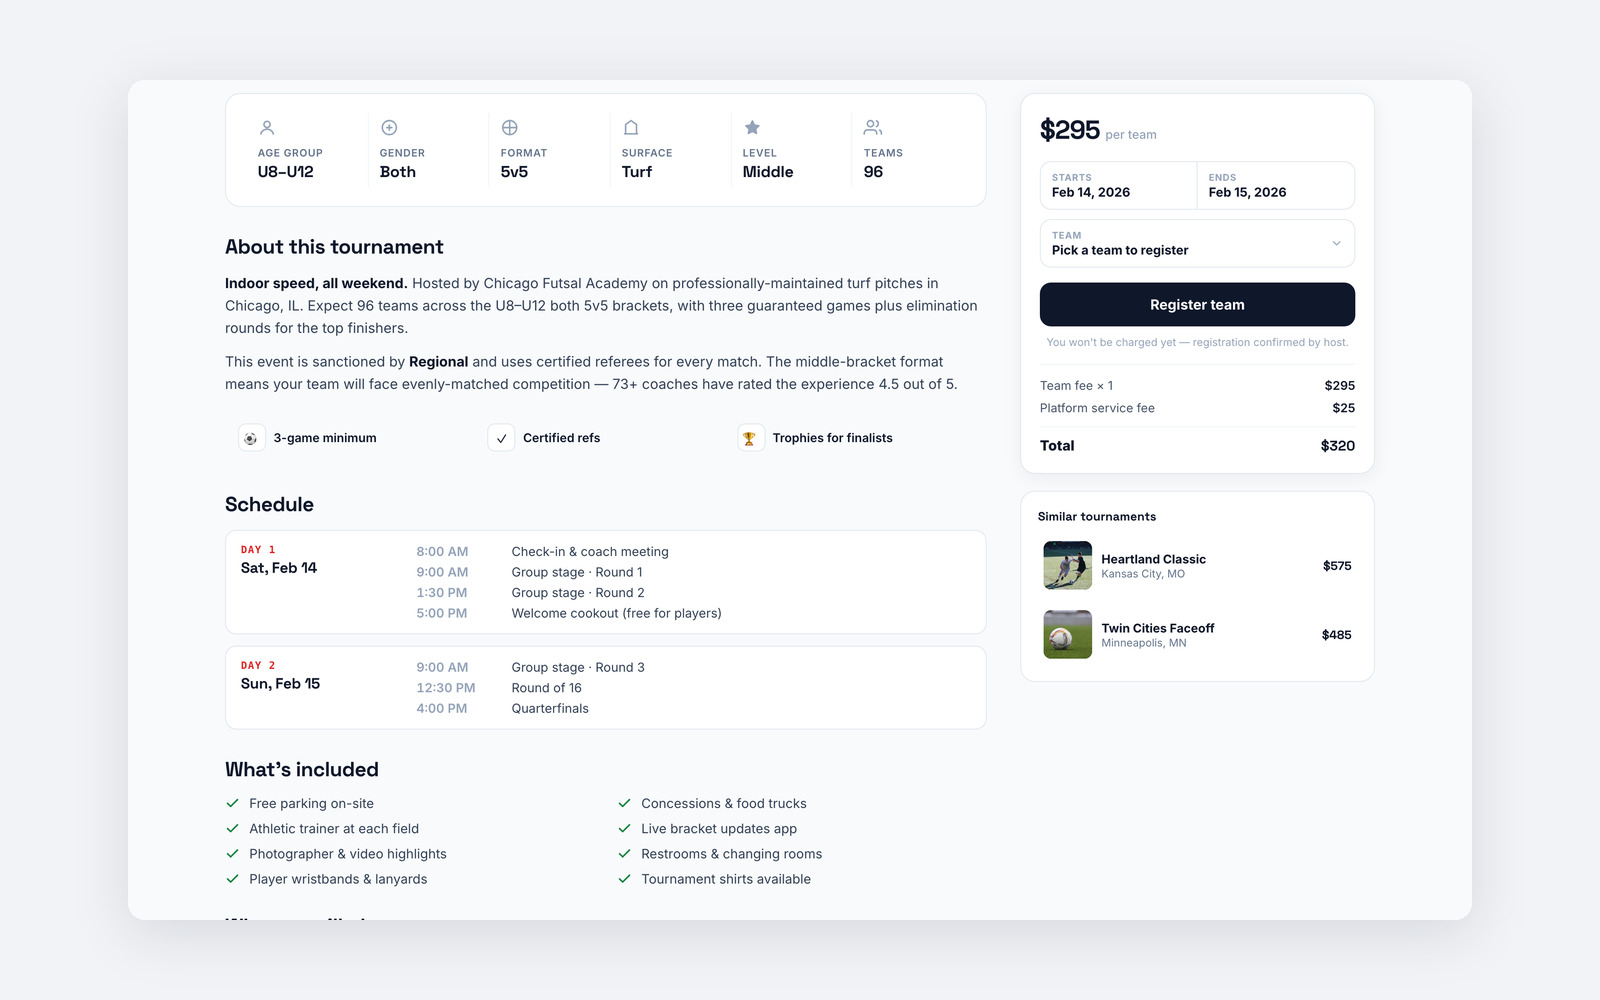
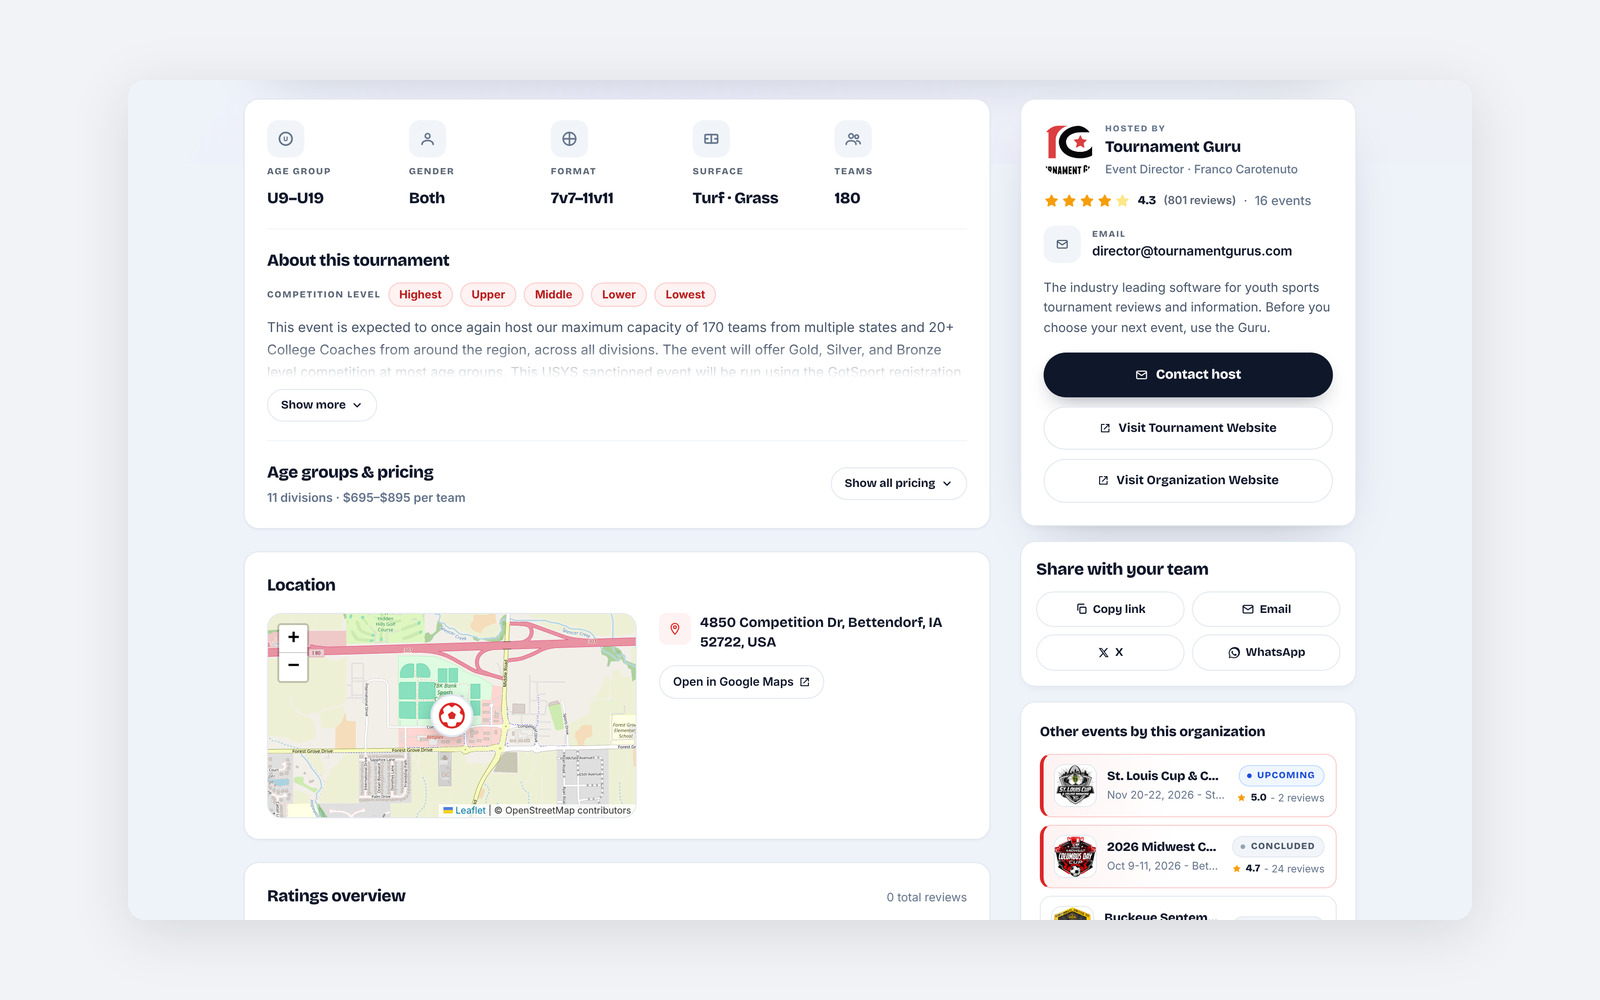
Tournament Guru: screens and cover from the live app, link to app.tournamentgurus.com
Claude-Session: https://claude.ai/code/session_019s9hMNDEcLkm54bZicL17g

diff --git a/cases/tournament-guru.html b/cases/tournament-guru.html
@@ -237,7 +237,7 @@ figure{margin:0}
     <div class="tags"><span class="tag">Web app · Marketplace</span><span class="tag acc">Design Consultant</span></div>
     <span class="year">Youth sports &nbsp;·&nbsp; 2026</span>
   </div>
-  <div class="media rv"><img src="../img/cases/tournament-guru/cover.jpg?v=2" alt="Tournament Guru: tournament page and catalog" loading="lazy"></div>
+  <div class="media rv"><img src="../img/cases/tournament-guru/cover.jpg?v=3" alt="Tournament Guru: tournament page and catalog" loading="lazy"></div>
 </section>
 
 <section class="sec cintro">
@@ -353,16 +353,17 @@ figure{margin:0}
   <div class="wrap">
     <div class="shead">
       <h2 class="h2 rv">UI design</h2>
-      <p class="body rv">Catalog for discovery, an event page built for the final decision — schedule, fees, host and verified reviews — and a sign-in that sells the value.</p>
+      <p class="body rv">From the live product: search with filters and a map, an event page built for the final decision — details, pricing, location and host — and verified reviews right in the listing.</p>
     </div>
     <div class="screens">
-      <div class="media span rv"><img src="../img/cases/tournament-guru/screen-catalog.jpg?v=2" alt="Catalog with filters and recommended tournaments" loading="lazy"></div>
-      <div class="media rv"><img src="../img/cases/tournament-guru/screen-event.jpg?v=2" alt="Tournament page with key facts" loading="lazy"></div>
-      <div class="media rv"><img src="../img/cases/tournament-guru/screen-details.jpg?v=1" alt="Schedule, what’s included and the registration card with fees" loading="lazy"></div>
-      <div class="media rv"><img src="../img/cases/tournament-guru/screen-reviews.jpg?v=1" alt="Host profile, ratings by category and verified reviews" loading="lazy"></div>
-      <div class="media rv"><img src="../img/cases/tournament-guru/screen-login.jpg?v=2" alt="Sign-in with value proposition" loading="lazy"></div>
+      <div class="media span rv"><img src="../img/cases/tournament-guru/screen-catalog.jpg?v=3" alt="Event search with filters, featured events and a map with pins" loading="lazy"></div>
+      <div class="media rv"><img src="../img/cases/tournament-guru/screen-event.jpg?v=3" alt="Tournament page with photos, dates and host" loading="lazy"></div>
+      <div class="media rv"><img src="../img/cases/tournament-guru/screen-details.jpg?v=2" alt="Event details, pricing, location map and host profile" loading="lazy"></div>
+      <div class="media rv"><img src="../img/cases/tournament-guru/screen-reviews.jpg?v=2" alt="Event cards with verified and attendee ratings" loading="lazy"></div>
+      <div class="media rv"><img src="../img/cases/tournament-guru/screen-login.jpg?v=3" alt="Sign-in with platform stats" loading="lazy"></div>
+      <div class="media span rv"><img src="../img/cases/tournament-guru/screen-home.jpg?v=1" alt="Home page: tournament search engine with reviews" loading="lazy"></div>
     </div>
-    <p class="body rv" style="margin-top:20px"><a href="https://tournament-guru.vercel.app/index.html" target="_blank" rel="noopener" style="color:var(--brand)">Open the live prototype ↗</a></p>
+    <p class="body rv" style="margin-top:20px"><a href="https://app.tournamentgurus.com/" target="_blank" rel="noopener" style="color:var(--brand)">Open the live app ↗</a></p>
   </div>
 </section>
 

diff --git a/ru.html b/ru.html
@@ -1017,7 +1017,7 @@ dialog.sheet[open]{animation:pop .45s var(--ease)}
         <dl class="wk-kpi"><div><dt>Веб</dt><dd>Тип продукта</dd></div><div><dt>Дизайн-консультант</dt><dd>Моя роль</dd></div><div><dt>2 недели</dt><dd>Длительность</dd></div></dl>
         <span class="wk-cta">Смотреть кейс</span>
       </div>
-      <div class="wk-vis wk-img pvw sq" data-r="20"><div class="pv-ph sq" data-r="18"><img src="img/cases/tournament-guru/cover.jpg?v=2" alt="Tournament Guru" loading="lazy"></div></div>
+      <div class="wk-vis wk-img pvw sq" data-r="20"><div class="pv-ph sq" data-r="18"><img src="img/cases/tournament-guru/cover.jpg?v=3" alt="Tournament Guru" loading="lazy"></div></div>
     </a>
   </div>
 </section>

diff --git a/cases/bookkeeper-ai.html b/cases/bookkeeper-ai.html
@@ -383,7 +383,7 @@ figure{margin:0}
   <div class="wrap">
     <div class="next">
       <a class="ncase rv" href="tournament-guru.html">
-        <div class="media"><img src="../img/cases/tournament-guru/cover.jpg?v=2" alt="Tournament Guru" loading="lazy"></div>
+        <div class="media"><img src="../img/cases/tournament-guru/cover.jpg?v=3" alt="Tournament Guru" loading="lazy"></div>
         <div class="lbl"><div><small>Next case study</small><b>Tournament Guru</b></div><span class="arr circle"><svg width="16" height="16" viewBox="0 0 16 16" fill="none" stroke="currentColor" stroke-width="1.6" stroke-linecap="round" stroke-linejoin="round"><path d="M3 8h10M9 4l4 4-4 4"/></svg></span></div>
       </a>
       <div class="cta rv">

diff --git a/index.html b/index.html
@@ -1017,7 +1017,7 @@ dialog.sheet[open]{animation:pop .45s var(--ease)}
         <dl class="wk-kpi"><div><dt>Web</dt><dd>Product type</dd></div><div><dt>Design Consultant</dt><dd>My role</dd></div><div><dt>2 weeks</dt><dd>Duration</dd></div></dl>
         <span class="wk-cta">View case</span>
       </div>
-      <div class="wk-vis wk-img pvw sq" data-r="20"><div class="pv-ph sq" data-r="18"><img src="img/cases/tournament-guru/cover.jpg?v=2" alt="Tournament Guru" loading="lazy"></div></div>
+      <div class="wk-vis wk-img pvw sq" data-r="20"><div class="pv-ph sq" data-r="18"><img src="img/cases/tournament-guru/cover.jpg?v=3" alt="Tournament Guru" loading="lazy"></div></div>
     </a>
   </div>
 </section>

diff --git a/cases/_tools/build_tournament.py b/cases/_tools/build_tournament.py
@@ -1,10 +1,11 @@
-"""Tournament Guru: обложка, экраны без панели браузера и фото. Запуск из корня репозитория."""
+"""Tournament Guru: обложка и экраны из живого приложения app.tournamentgurus.com, плюс фото.
+Исходники лежат в cases/_src/tournament-guru/app (снимки 2x, 2880 px). Запуск из корня репозитория."""
 import sys
 sys.path.insert(0, 'cases/_tools')
 from PIL import Image
 import flat as F
 
-S, O = 'cases/_src/tournament-guru', 'img/cases/tournament-guru'
+S, O = 'cases/_src/tournament-guru/app', 'img/cases/tournament-guru'
 BG = (241, 243, 247)
 
 
@@ -20,21 +21,19 @@ def tile(img, size, pad, r):
     return cv
 
 
-# обложка: страница турнира + каталог поверх
+# обложка: главная + каталог с картой поверх
 W, H = 2800, 1575
 cv = Image.new('RGBA', (W, H), BG + (255,))
-a = F.fit(scr('d_event'), w=1880)
+a = F.fit(scr('01-home'), w=1880)
 F._place(cv, F._card(a, 22, border=False), (150, 150), 22, blur=34, alpha=34, dy=16)
-b = F.fit(scr('d_catalog_nomap'), w=1300)
+b = F.fit(scr('02-events'), w=1300)
 F._place(cv, F._card(b, 18, border=False), (W - 150 - b.width, H - 130 - b.height), 18, blur=40, alpha=60, dy=20)
 F.save(cv, f'{O}/cover.jpg')
 
-F.save(tile(scr('d_catalog_nomap'), (2400, 1200), 90, 22), f'{O}/screen-catalog.jpg')
-F.save(tile(scr('d_event'), (1600, 1000), 80, 16), f'{O}/screen-event.jpg')
-F.save(tile(scr('d_event_full', 1500), (1600, 1000), 80, 16), f'{O}/screen-details.jpg')
-F.save(tile(scr('d_event_full', 4280), (1600, 1000), 80, 16), f'{O}/screen-reviews.jpg')
-F.save(tile(scr('d_login'), (1600, 1000), 80, 16), f'{O}/screen-login.jpg')
-
-for k in ['s1', 's2', 's3', 's4']:
-    Image.open(f'{S}/ai/{k}.png').convert('RGB').save(f'{O}/photo-{k}.jpg', quality=90, subsampling=0, optimize=True)
+F.save(tile(scr('02-events'), (2400, 1200), 90, 22), f'{O}/screen-catalog.jpg')
+F.save(tile(scr('03-event'), (1600, 1000), 80, 16), f'{O}/screen-event.jpg')
+F.save(tile(scr('03-event-full', 1620), (1600, 1000), 80, 16), f'{O}/screen-details.jpg')
+F.save(tile(Image.open(f'{S}/02-events-full.png').convert('RGB').crop((170, 3300, 1740, 4280)), (1600, 1000), 80, 16), f'{O}/screen-reviews.jpg')
+F.save(tile(scr('07-login'), (1600, 1000), 80, 16), f'{O}/screen-login.jpg')
+F.save(tile(scr('01-home'), (2400, 1200), 90, 22), f'{O}/screen-home.jpg')
 print('ok')

diff --git a/HANDOFF.md b/HANDOFF.md
@@ -59,7 +59,7 @@
 
 | Кейс | Прототип | Суть | Шрифты / токены |
 |---|---|---|---|
-| Tournament Guru | https://tournament-guru.vercel.app/home.html | Выбор детских турниров с проверенными отзывами | Space Grotesk + Inter, navy/blue/red |
+| Tournament Guru | https://app.tournamentgurus.com/ | Выбор детских турниров с проверенными отзывами | Space Grotesk + Inter, navy/blue/red |
 | BookKeeper AI | https://bookkeeper-ai-tau.vercel.app/ | Внутренний AI-ассистент бухгалтерской фирмы: отвечает только по опубликованным SOP, с источниками; роли Bookkeeper / SME / QC Librarian | Manrope, `#1A73E8`, статусы Published/Needs Revalidation |
 | TrueScan | Figma `rFFixRw1aznY4sWHRFKyJk` (Leads, Opportunities, Proposals, Projects, Time tracking, Foundations) | **Не редизайн**: операционная платформа с нуля для компании 3D-сканирования зданий (reality capture). Цикл: Leads → Opportunities → Proposals (шаблон на 18 секций) → Projects → Time tracking (часы, суточные, пробег, недельное согласование). Роль — Lead Designer, срок 2 недели. Метрики только посчитанные по файлу: 100 экранов, 5 модулей, 3 клика лид→сделка, 3600+ инстансов | Inter, brand `#EE6A1F`, sidebar `#0F1A2E` |
 | StuLo | https://stulo-v2.vercel.app/#signin («Explore the demo») | Управление федеральными студенческими кредитами США: синк займов, следующий шаг, AI-коуч + живые коучи, декодер писем, PSLF | Bricolage Grotesque + Manrope, navy `#121740`, bright `#465AFF` |
